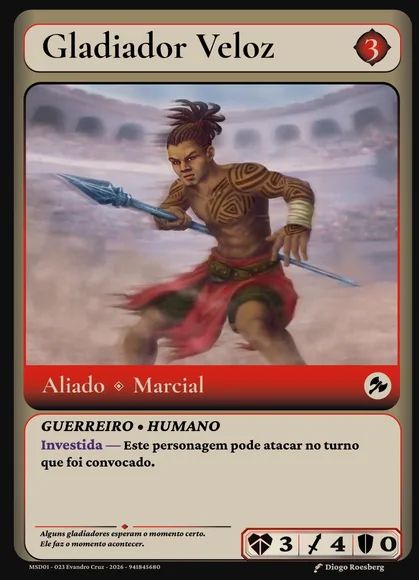
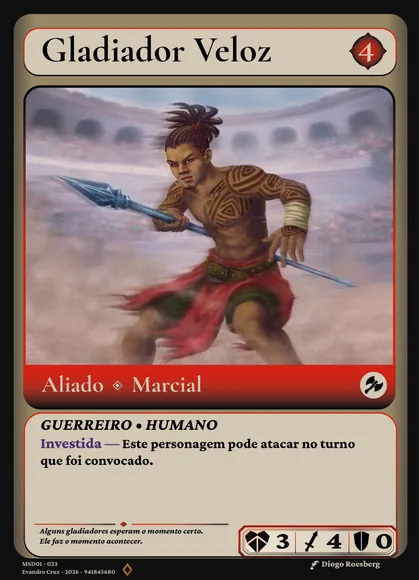
feat: update card definitions and enhance game mechanics with new rules and adjustments

diff --git a/server/src/rooms/match/matchEngine.ts b/server/src/rooms/match/matchEngine.ts
@@ -112,6 +112,11 @@ function isSpellOrTrickKind(kind: string | undefined): boolean {
 	return normalized === "spell" || normalized === "magia" || normalized === "truque" || normalized === "trick";
 }
 
+function isSpellKind(kind: string | undefined): boolean {
+	const normalized = normalizeKind(kind);
+	return normalized === "spell" || normalized === "magia";
+}
+
 function isTrickKind(kind: string | undefined): boolean {
 	const normalized = normalizeKind(kind);
 	return normalized === "truque" || normalized === "trick";
@@ -884,7 +889,7 @@ function maybeOfferCounterToActivation(
 	onCancelled: () => void
 ): void {
 	const activatedDef = findCardDef(activatedCardId);
-	if (!isSpellOrTrickKind(activatedDef?.kind || activatedDef?.tipo)) {
+	if (!isSpellKind(activatedDef?.kind || activatedDef?.tipo)) {
 		onContinue();
 		return;
 	}
@@ -1379,6 +1384,7 @@ function findDeckMatchIndices(deck: string[], query: any, maxResults: number): n
 	const expectedClasse = normalizeKind(String(query?.classe || ""));
 	const expectedTipo = normalizeKind(String(query?.tipo || ""));
 	const expectedFiliacao = normalizeKind(String(query?.filiacao || ""));
+	const maxCost = Number(query?.maxCost);
 	for (let index = deck.length - 1; index >= 0; index -= 1) {
 		const cardId = deck[index];
 		const card = findCardDef(cardId);
@@ -1391,6 +1397,8 @@ function findDeckMatchIndices(deck: string[], query: any, maxResults: number): n
 		if (expectedClasse && normalizeKind(card.classe) !== expectedClasse) continue;
 		if (expectedTipo && normalizeKind(card.tipo) !== expectedTipo) continue;
 		if (expectedFiliacao && normalizeKind(card.filiacao) !== expectedFiliacao) continue;
+		const cardCost = Number(card.cost);
+		if (Number.isFinite(maxCost) && (!Number.isFinite(cardCost) || cardCost > maxCost)) continue;
 		out.push(index);
 		if (out.length >= maxResults) break;
 	}
@@ -1551,14 +1559,14 @@ function triggerAutoEffects(
 			const cid = String(foe.hand[i] || "");
 			if (!cid) continue;
 			const def = findCardDef(cid);
-			if (!isSpellOrTrickKind(def?.kind || def?.tipo)) continue;
+			if (!isSpellKind(def?.kind || def?.tipo)) continue;
 			options.push({ id: `anular-${i}`, label: cid, side: enemySlot(slot), lane: "support", pos: i, cardId: cid });
 		}
 		if (!options.length) {
-			broadcast("effect_log", { slot, cardId, effect, text: `${cardId}: nenhuma magia/truque na mão inimiga para anular.` });
+			broadcast("effect_log", { slot, cardId, effect, text: `${cardId}: nenhuma magia na mão inimiga para anular.` });
 			return;
 		}
-		askChoice(slot, { title: `${cardId}: escolha magia/truque para anular`, options, allowCancel: true }, (optionId) => {
+		askChoice(slot, { title: `${cardId}: escolha magia para anular`, options, allowCancel: true }, (optionId) => {
 			if (!optionId) return;
 			const pick = options.find((o) => o.id === optionId);
 			if (!pick || typeof pick.pos !== "number") return;
@@ -1744,27 +1752,28 @@ function triggerAutoEffects(
 	}
 
 	if (effect === "blood_sacrifice") {
+		const effectValue = (cardDef as any)?.effectValue || {};
+		const selfDamage = Math.max(1, Number(effectValue.selfDamage || 2));
+		const enemyDamage = Math.max(1, Number(effectValue.enemyDamage || 4));
 		const ownCharacters: ChoiceOption[] = [];
-		if (String(me.leaderId || "") && Number(me.hp || 0) >= 2) ownCharacters.push({ id: "blood-own-leader", label: `Líder (${me.leaderId})`, side: slot, lane: "env", cardId: String(me.leaderId || "") });
+		if (String(me.leaderId || "")) ownCharacters.push({ id: "blood-own-leader", label: `Líder (${me.leaderId})`, side: slot, lane: "env", cardId: String(me.leaderId || "") });
 		for (let pos = 0; pos < me.field.length; pos += 1) {
 			const cid = String(me.field[pos] || "");
 			if (!cid) continue;
-			const hp = getTargetHP(state, slot, pos);
-			if (hp < 2) continue;
 			ownCharacters.push({ id: `blood-own-${pos}`, label: cid, side: slot, lane: "field", pos, cardId: cid });
 		}
 		if (!ownCharacters.length) {
-			broadcast("effect_log", { slot, cardId, effect, text: `${cardId}: sem personagem seu com vida suficiente para receber 2 de dano.` });
+			broadcast("effect_log", { slot, cardId, effect, text: `${cardId}: sem personagem seu para receber ${selfDamage} de dano.` });
 			return;
 		}
-		askChoice(slot, { title: `${cardId}: escolha personagem seu para receber 2 de dano`, options: ownCharacters, allowCancel: true }, (costOptionId) => {
+		askChoice(slot, { title: `${cardId}: escolha personagem seu para receber ${selfDamage} de dano`, options: ownCharacters, allowCancel: true }, (costOptionId) => {
 			if (!costOptionId) return;
 			const costPick = ownCharacters.find((o) => o.id === costOptionId);
 			if (!costPick) return;
 			let payerId = "";
 			if (costPick.id === "blood-own-leader") {
 				payerId = String(me.leaderId || "");
-				applyDamageToLeader(me, 2);
+				applyDamageToLeader(me, selfDamage);
 				if (me.hp <= 0) {
 					state.phase = "FINISHED";
 					broadcast("match_ended", { winner: enemySlot(slot), loser: slot, p1Hp: state.game.p1.hp, p2Hp: state.game.p2.hp, seq: state.game.seq });
@@ -1774,7 +1783,7 @@ function triggerAutoEffects(
 				if (typeof costPick.pos !== "number") return;
 				payerId = String(me.field[costPick.pos] || "");
 				if (!payerId) return;
-				const payerRemaining = applyDamageToField(state, slot, costPick.pos, 2);
+				const payerRemaining = applyDamageToField(state, slot, costPick.pos, selfDamage);
 				if (payerRemaining <= 0) {
 					destroyAttachedSupports(state, slot, costPick.pos, broadcast);
 					const removed = clearFieldSlotWithAuras(state, slot, costPick.pos);
@@ -1794,13 +1803,13 @@ function triggerAutoEffects(
 				enemies.push({ id: `blood-target-ally-${pos}`, label: cid, side: enemySlot(slot), lane: "field", pos, cardId: cid });
 			}
 			if (!enemies.length) return;
-			askChoice(slot, { title: `${cardId}: escolha personagem inimigo para 4 de dano`, options: enemies, allowCancel: true }, (targetOptionId) => {
+			askChoice(slot, { title: `${cardId}: escolha personagem inimigo para ${enemyDamage} de dano`, options: enemies, allowCancel: true }, (targetOptionId) => {
 				if (!targetOptionId) return;
 				const targetPick = enemies.find((o) => o.id === targetOptionId);
 				if (!targetPick) return;
 				if (targetPick.id === "blood-target-leader") {
-					applyDamageToLeader(foe, 4);
-					broadcast("effect_log", { slot, cardId, effect, text: `${cardId}: causou 2 de dano em ${payerId} e 4 no líder inimigo.` });
+					applyDamageToLeader(foe, enemyDamage);
+					broadcast("effect_log", { slot, cardId, effect, text: `${cardId}: causou ${selfDamage} de dano em ${payerId} e ${enemyDamage} no líder inimigo.` });
 					if (foe.hp <= 0) {
 						state.phase = "FINISHED";
 						broadcast("match_ended", { winner: slot, loser: enemySlot(slot), p1Hp: state.game.p1.hp, p2Hp: state.game.p2.hp, seq: state.game.seq });
@@ -1810,7 +1819,7 @@ function triggerAutoEffects(
 				if (typeof targetPick.pos !== "number") return;
 				const targetId = String(foe.field[targetPick.pos] || "");
 				if (!targetId) return;
-				const remaining = applyDamageToField(state, enemySlot(slot), targetPick.pos, 4);
+				const remaining = applyDamageToField(state, enemySlot(slot), targetPick.pos, enemyDamage);
 				if (remaining <= 0) {
 					destroyAttachedSupports(state, enemySlot(slot), targetPick.pos, broadcast);
 					const removed = clearFieldSlotWithAuras(state, enemySlot(slot), targetPick.pos);
@@ -1820,7 +1829,7 @@ function triggerAutoEffects(
 						}
 					}
 				}
-				broadcast("effect_log", { slot, cardId, effect, text: `${cardId}: causou 2 de dano em ${payerId} e 4 em ${targetId}.` });
+				broadcast("effect_log", { slot, cardId, effect, text: `${cardId}: causou ${selfDamage} de dano em ${payerId} e ${enemyDamage} em ${targetId}.` });
 			});
 		});
 		return;
@@ -2219,7 +2228,7 @@ function triggerAutoEffects(
 		const searchDef = {
 			...(cardDef as any),
 			effect: "search_deck",
-			query: { kind: "ally", tipo: "Animal" },
+			query: { kind: "ally", tipo: "Animal", ...((cardDef as any)?.query || {}) },
 			max: 12,
 			shuffleAfter: true,
 			title: `${cardId}: escolha um aliado Animal do deck`
@@ -3227,7 +3236,6 @@ export function playCard(state: MatchState, slot: Slot, cardId: string, targetPo
 	if (!payCardCost()) return;
 	pg.hand.splice(idx, 1);
 	finalizeLanePlay(finalPos);
-	broadcast("card_played", { slot, lane, cardId, targetPos: finalPos, cost, p1Fragments: game.p1.fragments, p2Fragments: game.p2.fragments, seq: game.seq });
 }
 
 export function activateLeaderPower(

diff --git a/client/public/cards/cartas.js b/client/public/cards/cartas.js
@@ -127,7 +127,7 @@ const CARD_DEFS = [
 name: 'Tamanduá Guardião', kind: 'ally', img: '/allies/layout-tamanduaguardiao.ai.png', cost: 2, classe: 'Criatura', tipo: 'Animal', filiacao: 'Religioso', ac: 0, hp: 7, maxHp: 7, damage: 2, atkBonus: 2, keywords: ['provocar'], effect: '', text: 'Desafio — Enquanto este aliado estiver Exaurido, seus\noponentes só podem atacar aliados com Desafio.'
   },
     {
-    name: 'Leão Rei Sagrado', kind: 'ally', img: '/allies/layout-leaoreisagrado.ai.png', cost: 6, classe: 'Criatura', tipo: 'Animal', filiacao: 'Religioso', ac: 1, hp: 5, maxHp: 5, damage: 4, atkBonus: 4, keywords: [], effect: 'search_deck_animal_aura_atk', effectValue: 1, auraTarget: { tipo: 'Animal' }, auraProp: 'atk', text: 'Quando este Aliado for convocado, adicione um aliado\n"Animal" do seu baralho para sua mão. Embaralhe seu\nbaralho.\n\nEnquanto este Aliado estiver em campo, seus Aliados\n"Animal" recebem +1 de Ataque.'
+    name: 'Leão Rei Sagrado', kind: 'ally', img: '/allies/layout-leaoreisagrado.ai.png', cost: 6, classe: 'Criatura', tipo: 'Animal', filiacao: 'Religioso', ac: 1, hp: 5, maxHp: 5, damage: 4, atkBonus: 4, keywords: [], effect: 'search_deck_animal_aura_atk', effectValue: 1, query: { maxCost: 4 }, auraTarget: { tipo: 'Animal' }, auraProp: 'atk', text: 'Quando este Aliado for convocado, adicione um aliado\n"Animal", custo 4 ou menos, do seu baralho para sua\nmão. Embaralhe seu baralho.\n\nEnquanto este Aliado estiver em campo, seus Aliados\n"Animal" recebem +1 de Ataque.'
     },
   {
   name: 'Aerin Nieloy', kind: 'ally', img: '/allies/layout-aerynnieloy.ai.png', cost: 3, classe: 'Guerreiro', tipo: 'Elfo', filiacao: 'Marcial', ac: 1, hp: 6, maxHp: 6, damage: 2, atkBonus: 2, keywords: ['bloquear'],
@@ -193,7 +193,7 @@ name: 'Tamanduá Guardião', kind: 'ally', img: '/allies/layout-tamanduaguardiao
     name: 'O Protetor', kind: 'ally', img: '/allies/layout-oprotetor.ai.png', cost: 3, classe: 'Cidadão', tipo: 'Humano', filiacao: 'Arcana', ac: 0, hp: 4, maxHp: 4, damage: 1, atkBonus: 1, keywords: ['bloquear'], effect: 'aura_hp', effectValue: 1, auraTarget: { classe: 'Cidadão' }, auraScope: 'allies', text: 'Interpor — Este personagem pode bloquear um ataque\ndirecionado a outro personagem.\nEnquanto este aliado estiver em campo, seus\npersonagens "Cidadão" recebem +1 de vida.'
   },
   {
-    name: 'Gladiador Veloz', kind: 'ally', img: '/allies/layout-gladiadorveloz.ai.png', cost: 3, classe: 'Guerreiro', tipo: 'Humano', filiacao: 'Marcial', ac: 0, hp: 3, maxHp: 3, damage: 4, atkBonus: 4, keywords: ['investida'], text: 'Investida — Este personagem pode atacar no turno\nque foi convocado.'
+    name: 'Gladiador Veloz', kind: 'ally', img: '/allies/layout-gladiadorveloz.ai.png', cost: 4, classe: 'Guerreiro', tipo: 'Humano', filiacao: 'Marcial', ac: 0, hp: 3, maxHp: 3, damage: 4, atkBonus: 4, keywords: ['investida'], text: 'Investida — Este personagem pode atacar no turno\nque foi convocado.'
   },
 
   // Magias, Equipamentos, Ambientes, Truques
@@ -240,7 +240,7 @@ name: 'Tamanduá Guardião', kind: 'ally', img: '/allies/layout-tamanduaguardiao
       text: 'Quando um oponente declarar um Ataque: O\npersonagem atacante perde 3 de Ataque até o final\ndaquele embate. Se você controlar um Aliado com\n"Aranhas Negras" no nome, compre 1 carta.'
     },
   {
-    name: 'Interrupção Perfeita', kind: 'truque', img: '/trick/layout-interrupcaoperfeita.ai.png', cost: 2, classe: '', tipo: 'Truque', filiacao: 'Arcana', effect: 'anular_magia_truque', text: 'Quando seu oponente ativar uma carta de Magia ou\nTruque: Anule o efeito da carta ativada.'
+    name: 'Interrupção Perfeita', kind: 'truque', img: '/trick/layout-interrupcaoperfeita.ai.png', cost: 2, classe: '', tipo: 'Truque', filiacao: 'Arcana', effect: 'anular_magia_truque', text: 'Quando seu oponente ativar uma carta de Magia: Anule\no efeito da carta ativada.'
   },
     {
       name: 'Alerta de Fuga',
@@ -329,17 +329,17 @@ name: 'Tamanduá Guardião', kind: 'ally', img: '/allies/layout-tamanduaguardiao
     name: 'Sede de Vingança', kind: 'spell', img: '/spell/layout-sedevinganca.ai.png', cost: 5, classe: '', tipo: 'Magia', filiacao: 'Marcial', effect: 'sede_vinganca', effectValue: 3, text: 'Você pode ativar Sede de Vingança uma vez por turno.\nEscolha 1 personagem "Guerreiro" que você controla,\nele recebe +3 de ataque até o fim do turno. Se ele\nderrotar 1 aliado do oponente, neste turno, compre 1\ncarta.'
   },
   {
-    name: 'Gladiador Implacável', kind: 'ally', img: '/allies/layout-gladiadorimplacavel.ai.png', cost: 4, classe: 'Guerreiro', tipo: 'Humano', filiacao: 'Marcial', ac: 0, hp: 5, maxHp: 5, damage: 3, atkBonus: 3, keywords: [], effect: 'buff_on_kill', effectValue: { atk: 1, ac: 1 }, text: 'Quando este Aliado vencer um inimigo em combate e\nenviá-lo para o cemitério, coloque 1 marcador\n"Sangue" neste aliado. Ele recebe +1 de Ataque e +1 de\nResistência para cada marcador Sangue nele.'
+    name: 'Gladiador Implacável', kind: 'ally', img: '/allies/layout-gladiadorimplacavel.ai.png', cost: 5, classe: 'Guerreiro', tipo: 'Humano', filiacao: 'Marcial', ac: 0, hp: 4, maxHp: 4, damage: 3, atkBonus: 3, keywords: [], effect: 'buff_on_kill', effectValue: { atk: 1, ac: 1 }, text: 'Quando este Aliado vencer um inimigo em combate e\nenviá-lo para o cemitério, coloque 1 marcador\n"Sangue" neste aliado. Ele recebe +1 de Ataque e +1 de\nResistência para cada marcador Sangue nele.'
   },
   {
-  name: 'Yohan, Ronin Vigilante', aliases: ['Yoran, Ronin Vigilante'], kind: 'ally', img: '/allies/layout-yohanronin.ai.png', cost: 2, classe: 'Guerreiro', tipo: 'Humano', filiacao: 'Marcial', ac: 0, hp: 3, maxHp: 3, damage: 1, atkBonus: 1, keywords: [], effect: 'kornex_buff_per_marcial_in_play', effectValue: 1, text: 'Este Aliado recebe +1 de ataque para cada outra carta\n"Marcial" no campo de qualquer jogador.'
+  name: 'Yohan, Ronin Vigilante', aliases: ['Yoran, Ronin Vigilante'], kind: 'ally', img: '/allies/layout-yohanronin.ai.png', cost: 2, classe: 'Guerreiro', tipo: 'Humano', filiacao: 'Marcial', ac: 0, hp: 2, maxHp: 2, damage: 1, atkBonus: 1, keywords: [], effect: 'kornex_buff_per_marcial_in_play', effectValue: 1, text: 'Este Aliado recebe +1 de ataque para cada outra carta\n"Marcial" no campo de qualquer jogador.'
   },
   {
     name: 'Livro Arcano Instável', kind: 'equip', img: '/equip/layout-livroinstavel.ai.png', cost: 2, classe: '', tipo: 'Equipamento', filiacao: 'Arcana', effect: 'olhar_topo', atkBonus: 1, text: 'O personagem equipado recebe +1 de Ataque.\nQuando este equipamento entrar em campo, olhe a\ncarta do topo do seu baralho. Volte-a para o topo ou\ncoloque-a no fundo do seu baralho.'
   },
   // Exemplo: carta que exige pagar vida de um aliado em vez de fragmentos
   {
-    name: 'Aranhas Negras, Milícia', kind: 'spell', img: '/spell/layout-aranhasmilicia.ai.png', cost: 1, classe: '', tipo: 'Magia', filiacao: 'Sombras', effect: 'blood_sacrifice', costHp: 2, text: 'Cause 2 de dano em um Personagem que você controla.\nSe o fizer, cause 4 de dano em 1 Personagem inimigo.'
+    name: 'Aranhas Negras, Milícia', kind: 'spell', img: '/spell/layout-aranhasmilicia.ai.png', cost: 3, classe: '', tipo: 'Magia', filiacao: 'Sombras', effect: 'blood_sacrifice', effectValue: { selfDamage: 3, enemyDamage: 4 }, text: 'Cause 3 de dano em um Personagem que você controla.\nSe o fizer, cause 4 de dano em 1 Personagem inimigo.'
   },
    // Adicione todas as cartas reais aqui!
   {
